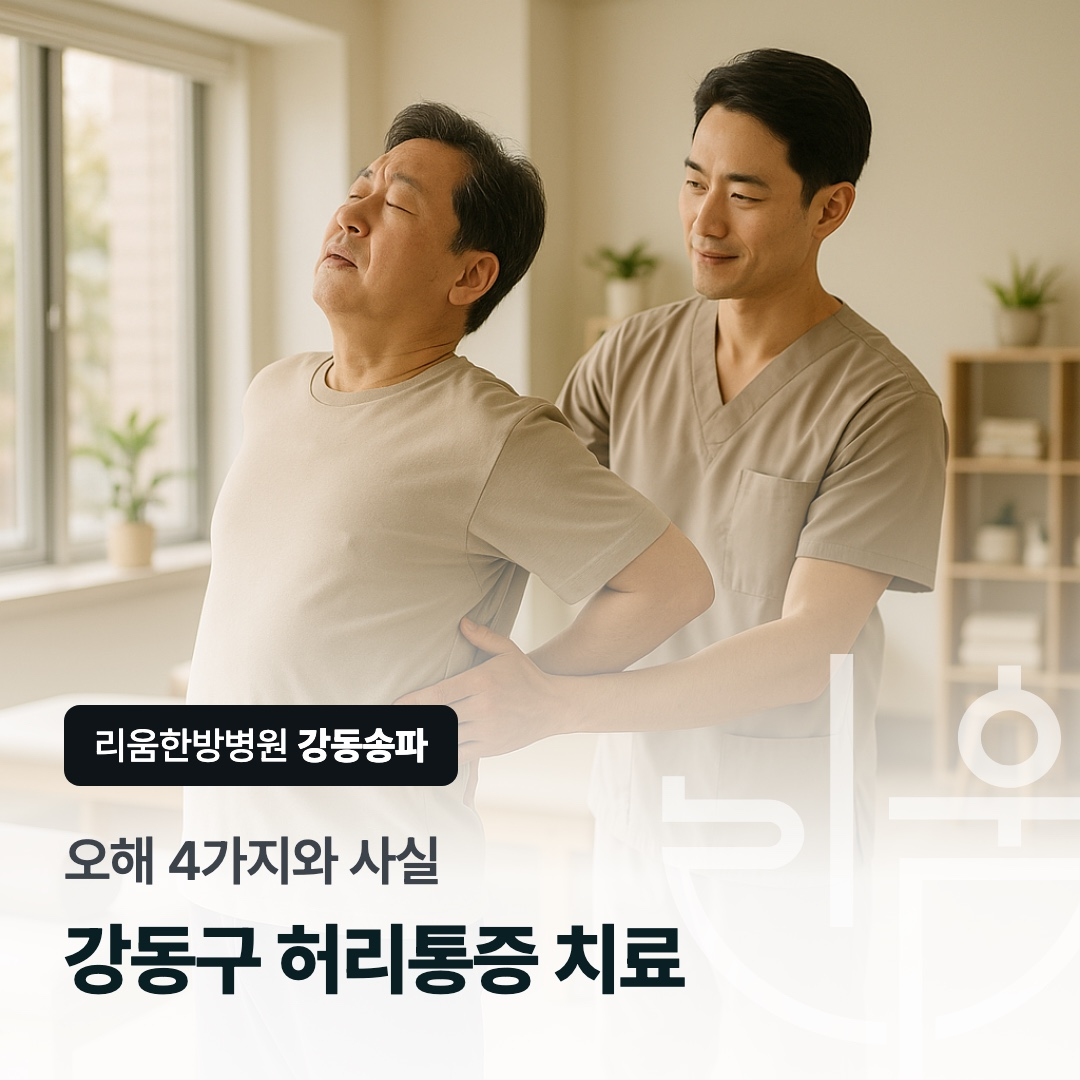
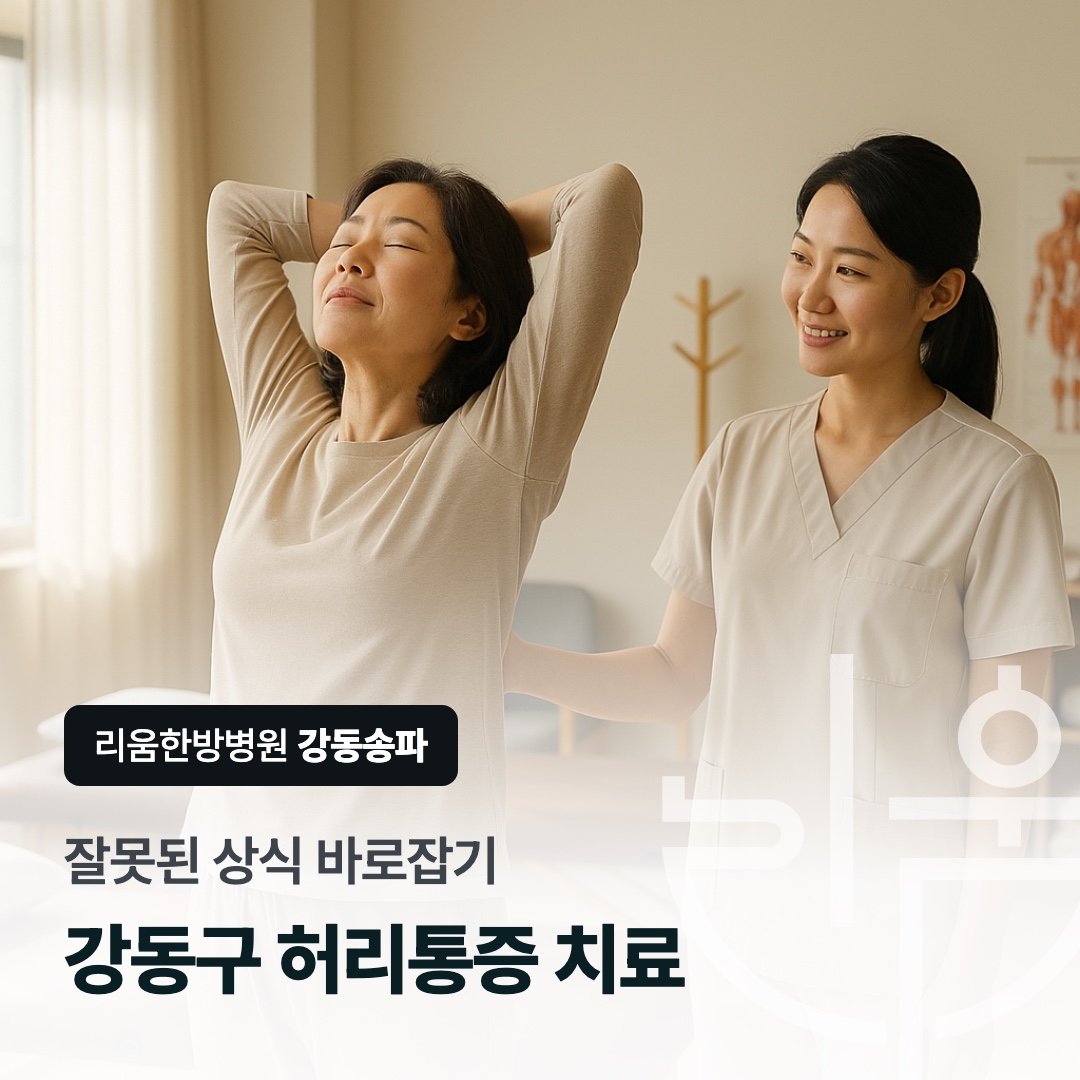
허리통증 오해편 서사형 재작성 + 본원 소개에 암요양 추가
- 콘텐츠 질 개선(사용자 피드백): N가지·번호 나열 골격 제거, 진료실 대화
  인용 중심 문단 서사로 전환. 제목·요약·체크리스트 라벨의 카운트 삭제,
  썸네일 문구도 "잘못된 상식 바로잡기"로 재생성
- geo-writing-guide 1절 본문 구조 개정: 원고마다 구조 새로 설계 의무화
- 지점 안내 블록·llms.txt 본원 소개에 암요양 표기 추가

Claude-Session: https://claude.ai/code/session_01TyEiG6KbUaQ2SqqSyjfWwL

diff --git a/content/columns/gangdong-back-pain-treatment.ts b/content/columns/gangdong-back-pain-treatment.ts
@@ -1,10 +1,9 @@
 import type { ColumnArticle } from "@/lib/columns/types";
-import { CLINIC } from "@/lib/clinic";
 
 /**
  * "강동구 허리통증 치료" 타깃 — 지역+증상+치료목적 3조합 키워드.
- * 구조 변주(2026-08-14 사용자 요청): 기존 "선택 기준" 골격 대신
- * ① 오해 바로잡기(myth vs fact) ② 시기별 치료 로드맵 표 ③ 치료 중 자가 점검 체크리스트.
+ * 2026-08-14 콘텐츠 질 개선(사용자 피드백): "N가지·1번~N번" 숫자 골격 제거,
+ * 진료실 대화 인용 중심의 문단 서사로 재작성. 표·체크리스트는 유지하되 카운트 라벨 삭제.
  * 기존 허리 3편(디스크=질환 기준, 허리통증 병원=과정 확인, 척추통증=원인 감별)과 축 중복 없음.
  *
  * 사실 근거:
@@ -15,100 +14,91 @@ import { CLINIC } from "@/lib/clinic";
  */
 export const gangdongBackPainTreatment = {
   slug: "gangdong-back-pain-treatment",
-  title: "강동구 허리통증 치료 흔한 오해 4가지와 사실",
+  title: "강동구 허리통증 치료, 무조건 쉬라는 상식이 회복을 늦춥니다",
   keyword: "강동구 허리통증 치료",
   description:
-    "허리는 무조건 쉬어야 낫는다, 통증이 사라지면 끝났다 같은 오해가 회복을 늦춥니다. 강동구 허리통증 치료를 시작하기 전 바로잡아야 할 오해 4가지와 시기별 치료 로드맵을 정리했습니다.",
+    "허리는 누워서 쉬어야 낫는다, 통증이 사라지면 끝난 것이다. 진료실에서 자주 듣는 이 말들이 실제로는 회복을 늦춥니다. 강동구 허리통증 치료를 시작하기 전에 바로잡을 상식과 시기별 치료 흐름을 정리했습니다.",
   summary: [
-    "허리통증 치료에서 흔한 오해 4가지(무조건 안정, 통증 소실이 곧 완치, 운동 금지, 아플 때만 치료)를 바로잡는 것이 회복 계획의 출발점입니다.",
-    "급성기에는 통증 완화, 아급성기에는 기능 회복, 회복기에는 재발 방지로 치료 목표가 달라지며, 시기에 맞는 치료를 받는 것이 중요합니다.",
+    "무조건 누워서 안정, 통증이 사라지면 완치, 아플 땐 운동 금지, 아플 때만 병원. 널리 퍼진 이 통념들이 오히려 회복을 늦추는 경우가 많아, 허리통증 치료는 상식을 바로잡는 데서 출발합니다.",
+    "치료 목표는 시기마다 달라집니다. 통증이 심한 급성기에는 통증을 가라앉히는 데, 그다음에는 굳은 기능을 되돌리는 데, 일상으로 돌아간 뒤에는 재발을 막는 데 초점이 맞춰집니다.",
     "침·뜸·부항은 건강보험 급여 항목이고 추나요법도 연간 20회까지 본인부담률 50~80%로 적용되어, 시기별 치료 대부분을 보험 안에서 계획할 수 있습니다.",
     "강동구 성내동의 리움한방병원 강동송파는 한·양방 협진으로 급성기 통증 관리부터 회복기 재활까지 한 곳에서 이어가며 365일 진료합니다.",
   ],
   category: "지역·증상",
   thumbnail: {
     src: "/images/columns/gangdong-back-pain-treatment-thumbnail.jpg",
-    alt: "리움한방병원 강동송파 재활 치료 공간을 배경으로 한 칼럼 썸네일. 오해와 사실, 강동구 허리통증 치료",
+    alt: "리움한방병원 강동송파 재활 치료 공간을 배경으로 한 칼럼 썸네일. 강동구 허리통증 치료, 잘못된 상식 바로잡기",
   },
   datePublished: "2026-08-14",
   dateModified: "2026-08-14",
   sections: [
     {
       id: "myths-hurt-recovery",
-      heading: "치료보다 먼저, 오해부터 바로잡아야 하는 이유",
+      heading: "치료보다 먼저, 잘못된 상식부터 걷어내야 하는 이유",
       blocks: [
         {
           type: "paragraph",
           content: [
             "성내동·천호동·둔촌동에서 ",
             { text: "강동구 허리통증 치료", bold: true },
-            "를 알아보는 분들과 이야기해 보면, 치료법보다 먼저 잘못된 상식이 회복을 막고 있는 경우가 많습니다. \"허리는 무조건 쉬어야 한다\"며 몇 주를 누워만 지내거나, 통증이 가시자마자 무거운 운동으로 복귀하는 식입니다.",
+            "를 알아보는 분들과 이야기해 보면, 치료법보다 먼저 잘못된 상식이 회복을 막고 있는 경우가 의외로 많습니다. 허리는 무조건 쉬어야 한다며 몇 주를 누워만 지내다 근력이 빠진 채 오시는 분도 있고, 통증이 가시자마자 예전 운동량으로 복귀했다가 같은 자리가 다시 아파져 돌아오시는 분도 있습니다.",
           ],
         },
         {
           type: "paragraph",
           content: [
-            "같은 치료를 받아도 이런 오해를 안고 있으면 회복 흐름이 달라집니다. 그래서 이번 글은 병원 고르는 법이 아니라, 치료를 시작하기 전에 바로잡아야 할 오해 4가지와 시기별 치료 로드맵을 다룹니다.",
+            "같은 치료를 받아도 이런 통념을 안고 있으면 회복 흐름이 달라집니다. 그래서 이번 글은 병원 고르는 법이 아니라, 치료를 시작하기 전에 짚어야 할 상식 이야기부터 하려고 합니다. 진료실에서 실제로 자주 듣는 말들입니다.",
           ],
         },
       ],
     },
     {
       id: "four-myths",
-      heading: "허리통증 치료에 대한 흔한 오해 4가지",
+      heading: "진료실에서 자주 듣는 말, 어디까지 사실일까",
       blocks: [
         {
-          type: "criteria",
-          items: [
-            {
-              title: "오해 1. 허리가 아프면 무조건 누워서 쉬어야 한다",
-              body: [
-                [
-                  "사실은 다릅니다. 통증이 극심한 첫 며칠을 제외하면, 오래 누워 지내는 것보다 통증이 허락하는 범위 안에서 가벼운 일상 활동을 유지하는 것이 회복에 도움이 되는 것으로 알려져 있습니다. 장기간의 침상 안정은 오히려 근력을 떨어뜨려 회복을 늦출 수 있습니다. 어느 정도 움직여도 되는지는 진찰에서 확인받는 것이 가장 정확합니다.",
-                ],
-              ],
-            },
-            {
-              title: "오해 2. 통증이 사라지면 치료가 끝난 것이다",
-              body: [
-                [
-                  "통증 소실과 회복 완료는 다릅니다. 통증이 가라앉아도 약해진 근력과 굳은 관절이 남아 있으면 같은 동작에서 재발하기 쉽습니다. 그래서 치료 후반부의 목표는 통증 완화가 아니라 재발하지 않는 허리를 만드는 것이고, 이 단계가 재활과 운동 지도입니다.",
-                ],
-              ],
-            },
-            {
-              title: "오해 3. 허리가 아픈 동안 운동은 금물이다",
-              body: [
-                [
-                  "무리한 운동과 치료적 운동은 다릅니다. 급성기에 통증을 참으며 하는 고강도 운동은 피해야 하지만, 시기에 맞는 가벼운 스트레칭과 근력 운동은 회복 과정의 일부입니다. 어떤 운동을 언제 시작할지는 자가 판단이 아니라 치료 경과에 맞춰 의료진과 정하는 것이 안전합니다.",
-                ],
-              ],
-            },
-            {
-              title: "오해 4. 치료는 아플 때만 받으면 된다",
-              body: [
-                [
-                  "통증이 있을 때만 병원을 찾으면 매번 급성기 치료만 반복하게 됩니다. 통증이 줄어든 뒤에도 계획된 주기로 경과를 확인하고 재활 단계를 마무리해야 치료가 한 사이클로 완성됩니다. 치료를 시작할 때 전체 계획과 종료 시점을 함께 안내받으세요.",
-                ],
-              ],
-            },
+          type: "paragraph",
+          content: [
+            { text: "\"허리는 눕는 게 약이죠.\"", bold: true },
+            " 가장 자주 듣는 말이지만, 절반만 맞습니다. 통증이 극심한 첫 며칠은 무리한 활동을 멈추는 것이 맞습니다. 그런데 그 시기를 지나서도 오래 누워 지내면 허리를 지탱하는 근육이 먼저 약해집니다. 통증이 허락하는 범위 안에서 가벼운 일상 활동을 유지하는 쪽이 회복에 도움이 되는 것으로 알려져 있습니다. 어디까지 움직여도 되는지는 자가 판단보다 진찰에서 확인받는 것이 정확합니다.",
+          ],
+        },
+        {
+          type: "paragraph",
+          content: [
+            { text: "\"이제 안 아픈데 더 다녀야 하나요?\"", bold: true },
+            " 통증이 사라진 것과 회복이 끝난 것은 다릅니다. 통증은 가라앉았어도 약해진 근력과 굳은 관절은 그대로 남아 있는 경우가 많고, 그 상태로 일상에 복귀하면 같은 동작에서 다시 아파지기 쉽습니다. 치료 후반부의 목표가 통증 완화가 아니라 재발하지 않는 허리를 만드는 것인 이유입니다. 재활과 운동 지도까지가 치료의 한 사이클입니다.",
+          ],
+        },
+        {
+          type: "paragraph",
+          content: [
+            { text: "\"아픈 동안 운동은 금물이라던데요.\"", bold: true },
+            " 무리한 운동과 치료적 운동을 구분해야 합니다. 급성기에 통증을 참아가며 하는 고강도 운동은 피해야 하지만, 시기에 맞는 가벼운 스트레칭과 근력 운동은 오히려 회복 과정의 일부입니다. 어떤 운동을 언제 시작할지는 치료 경과에 맞춰 의료진과 정하는 것이 안전합니다.",
+          ],
+        },
+        {
+          type: "paragraph",
+          content: [
+            { text: "\"안 아프면 안 가도 되는 거 아닌가요?\"", bold: true },
+            " 통증이 있을 때만 병원을 찾으면 매번 급성기 치료만 반복하게 됩니다. 통증이 줄어든 뒤에도 계획된 주기로 경과를 확인하고 재활 단계를 마무리해야 다음 재발로 이어지는 고리를 끊을 수 있습니다. 치료를 시작할 때 전체 계획과 종료 시점을 함께 안내받아 두면 이 판단이 쉬워집니다.",
           ],
         },
       ],
     },
     {
       id: "roadmap",
-      heading: "시기별 치료 로드맵",
+      heading: "시기별로 달라지는 치료 목표",
       blocks: [
         {
           type: "paragraph",
           content: [
-            "오해를 걷어내고 나면 치료는 시기별 목표에 따라 진행됩니다. 아래 로드맵은 한·양방 협진 기준의 일반적인 흐름이며, 시기 구분과 치료 구성은 진찰 결과에 따라 조정됩니다.",
+            "통념을 걷어내고 나면 치료의 큰 그림이 보입니다. 허리통증 치료는 한 가지 치료를 반복하는 것이 아니라 시기마다 목표를 바꿔가며 진행됩니다. 아래 표는 한·양방 협진 기준의 일반적인 흐름이며, 시기 구분과 치료 구성은 진찰 결과에 따라 조정됩니다.",
           ],
         },
         {
           type: "table",
-          caption: "허리통증 시기별 치료 로드맵 (일반적 흐름)",
+          caption: "허리통증 시기별 치료 흐름 (일반적 예시)",
           headers: ["시기", "치료 목표", "주로 하는 치료", "생활 관리"],
           rows: [
             [
@@ -136,7 +126,7 @@ export const gangdongBackPainTreatment = {
           tone: "info",
           title: "시기 판단은 진찰로",
           content: [
-            "지금이 어느 시기인지, 다음 단계로 넘어가도 되는지는 통증 정도만으로 판단하기 어렵습니다. 다리 저림이나 힘 빠짐이 있다면 시기와 무관하게 신경 상태 확인이 우선이므로, 로드맵은 진찰과 함께 활용하세요.",
+            "지금이 어느 시기인지, 다음 단계로 넘어가도 되는지는 통증 정도만으로 판단하기 어렵습니다. 다리 저림이나 힘 빠짐이 있다면 시기와 무관하게 신경 상태 확인이 우선이므로, 이 표는 진찰과 함께 활용하세요.",
           ],
         },
       ],
@@ -148,7 +138,7 @@ export const gangdongBackPainTreatment = {
         {
           type: "paragraph",
           content: [
-            "비용 면에서는 침·뜸·부항이 건강보험 급여 항목이고, 추나요법도 연간 20회까지 본인부담률 50~80%로 적용되어 시기별 치료 대부분을 보험 안에서 계획할 수 있습니다. 약침·한약 등 비급여 항목은 치료 전에 비용을 안내받고 결정하면 됩니다.",
+            "비용 걱정으로 치료를 미루는 분들이 많은데, 생각보다 보험이 넓게 적용됩니다. 침·뜸·부항은 건강보험 급여 항목이고, 추나요법도 연간 20회까지 본인부담률 50~80%로 적용되어 시기별 치료 대부분을 보험 안에서 계획할 수 있습니다. 약침·한약 등 비급여 항목은 치료 전에 비용을 안내받고 결정하면 됩니다.",
           ],
         },
         {
@@ -156,7 +146,7 @@ export const gangdongBackPainTreatment = {
           content: [
             "리움한방병원 강동송파(",
             { text: "오시는길", href: "/#location" },
-            ")는 강동구 성내동 강동대로변에서 이 로드맵의 전 구간을 한 곳에서 진행합니다. 급성기의 침·약침과 입원 치료(65병상), 아급성기의 추나·도수치료, 회복기의 재활치료센터까지 한·양방 협진으로 이어지고, 365일 진료라 치료 주기가 주말·공휴일에 끊기지 않습니다. 5호선 둔촌동역과 9호선 올림픽공원역·둔촌오륜역에서 각각 도보 약 10분이며, 외래진료 시 2시간 주차가 무료입니다.",
+            ")는 강동구 성내동 강동대로변에서 이 흐름의 전 구간을 한 곳에서 진행합니다. 급성기의 침·약침과 입원 치료(65병상), 아급성기의 추나·도수치료, 회복기의 재활치료센터까지 한·양방 협진으로 이어지고, 365일 진료라 치료 주기가 주말·공휴일에 끊기지 않습니다. 5호선 둔촌동역과 9호선 올림픽공원역·둔촌오륜역에서 각각 도보 약 10분이며, 외래진료 시 2시간 주차가 무료입니다.",
           ],
         },
         {
@@ -179,17 +169,17 @@ export const gangdongBackPainTreatment = {
     },
     {
       id: "self-check",
-      heading: "치료 중 자가 점검 체크리스트",
+      heading: "치료가 잘 가고 있는지 스스로 확인하는 법",
       blocks: [
         {
           type: "paragraph",
           content: [
-            "이번 체크리스트는 내원 전 준비물이 아니라, 치료를 받는 동안 스스로 점검할 항목입니다. 진료 때 이 내용을 의료진과 공유하면 치료 계획 조정에 도움이 됩니다.",
+            "치료를 받는 동안에는 좋아지고 있는지가 잘 안 느껴질 때가 있습니다. 그럴 때는 통증 점수 하나만 보지 말고 아래 항목들을 함께 지켜보세요. 진료 때 이 변화를 의료진과 공유하면 치료 계획을 조정하는 데 도움이 됩니다.",
           ],
         },
         {
           type: "checklist",
-          title: "허리통증 치료 중 8가지 자가 점검",
+          title: "치료 중 지켜볼 변화들",
           items: [
             "통증 점수(10점 만점)가 치료 시작 때보다 낮아지고 있는가",
             "아침에 일어날 때의 뻣뻣함이 줄어들고 있는가",

diff --git a/components/columns/network-branches.tsx b/components/columns/network-branches.tsx
@@ -11,8 +11,8 @@ export default function NetworkBranches() {
       <p className="text-[14px] font-bold text-navy">리움 지점 안내</p>
       <p className="mt-2 text-[14px] leading-[1.8] text-ink/70">
         리움은 한방병원과 한의원을 함께 운영하는 한방의료 브랜드입니다. 본원인{" "}
-        {CLINIC.name}(통증·재활, {CLINIC.address}) 외에 아래 지점에서도 진료를
-        받으실 수 있습니다.
+        {CLINIC.name}(통증·재활·암요양병원, {CLINIC.address}) 외에 아래
+        지점에서도 진료를 받으실 수 있습니다.
       </p>
       <ul className="mt-2 flex flex-col gap-1.5">
         {CLINIC.network.map((branch) => (

diff --git a/app/llms.txt/route.ts b/app/llms.txt/route.ts
@@ -19,7 +19,7 @@ export function GET() {
 
 리움은 한방병원과 한의원을 함께 운영하는 한방의료 브랜드입니다.
 
-- ${CLINIC.name} (본원): 통증·재활 중심 한방병원, ${CLINIC.address}
+- ${CLINIC.name} (본원): 통증·재활·암요양 한방병원, ${CLINIC.address}
 ${CLINIC.network.map((b) => `- [${b.name}](${b.url}): ${b.focus} ${b.type}, ${b.address}`).join("\n")}
 
 ## 건강 칼럼

diff --git a/docs/geo-writing-guide.md b/docs/geo-writing-guide.md
@@ -22,12 +22,13 @@ AI 검색(ChatGPT·Claude·Perplexity·구글 AI 개요)에 **인용되는** 원
   - 질문형 질의 매칭은 제목이 아니라 H2·FAQ(구어체 질문 1개 이상 포함)가 담당한다.
   - 대시(—)로 잇지 않는다 (아래 문체 규칙 참조).
 - [ ] **핵심 요약 4문장** (`summary`): 각 문장이 단독으로 인용 가능한 자기완결형. **문장마다 구체 숫자 1개 이상** (거리 km, 소요 시간, 횟수, 부담률, 금액 범위).
-- [ ] **본문 구조** (레퍼런스 공식):
-  1. 문제 공감 도입 — 독자의 실제 질문을 직접 인용하며 시작
-  2. 선택 기준 N가지 — `criteria` 블록 (번호 H3)
-  3. 사실 정리 표 — `table` 블록 (병원 이용 정보, 비용 구조 등)
-  4. 비용·제도 정보 — 건강보험/자동차보험 등 공적 제도 중심
-  5. 체크리스트 — `checklist` 블록 (8~10항목)
+- [ ] **본문 구조 — 원고마다 다르게 설계한다 (2026-08-14 개정, 사용자 지시)**:
+  - 고정 요소는 "문제 공감 도입 + 사실 정보(표 또는 문단) + 마무리 안내"뿐이다. 나머지 골격은 주제에 맞게 매번 새로 짠다.
+  - **"신호 N가지", "기준 N가지", 번호 매긴 criteria 나열을 기본값으로 쓰지 않는다.** 숫자 나열 골격이 직전 원고들과 겹치면 사람이 쓴 글로 보이지 않는다 — GEO는 콘텐츠 질이 곧 인용 확률이다.
+  - 구조 변주 예시 (계속 추가): 진료실 대화 인용으로 오해를 풀어가는 서사형, 시기별 로드맵형, 사례 흐름형(증상 시작→진단→회복 경과), 질문 하나를 깊게 파는 단일 주제형, 비교 감별형.
+  - `criteria`(번호 목록)는 "고르는 기준"처럼 나열이 본질인 주제에만, 그리고 최근 원고들과 연속되지 않을 때만 쓴다.
+  - 표(`table`)·체크리스트(`checklist`)는 유용하면 유지하되, 제목·라벨에 "N가지" 카운트를 강박적으로 붙이지 않는다.
+  - 쓰고 나서 최근 5편과 나란히 놓고 읽었을 때 같은 사람이 같은 틀로 찍어낸 느낌이면 구조부터 다시 짠다.
 - [ ] **FAQ 3개 이상** (`faq`): 질문은 검색 질의형("~얼마나 걸리나요?", "~보험이 되나요?"), 답변은 2~4문장 자기완결 평문. FAQPage JSON-LD로 자동 변환된다.
 - [ ] **외부 출처** (`references`): 공식기관만 (보건복지부, 심평원, 건보공단, 국토교통부 등). 신뢰 시그널의 핵심.
 - [ ] **내부링크**: 본문에 홈 섹션(`/#location` 등)이나 다른 칼럼 링크 1~2개. `relatedSlugs`로 관련 칼럼 지정.
